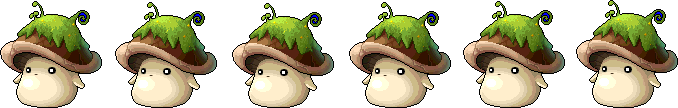
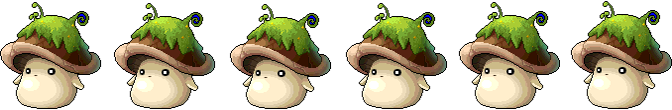
[도행]Middle Boss Test

diff --git a/Brave-Pig/Brave-Pig/Brave-Pig/LevelManager.cs b/Brave-Pig/Brave-Pig/Brave-Pig/LevelManager.cs
@@ -94,13 +94,13 @@ namespace Brave_Pig
 
                     if (TileMap.CellCodeValue(x, y) == "ENEMY2")
                     {
-                        Enemy BrownPig = new Enemy(Content, "갈색돼지", "brownpig", 50, 68, x, y, 200);
+                        Enemy BrownPig = new Enemy(Content, "갈색돼지", "brownpig", 70, 52, x, y, 200);
                         enemies.Add(BrownPig);
                     }
 
                     if (TileMap.CellCodeValue(x, y) == "ENEMY3")
                     {
-                        Enemy MossMushroom = new Enemy(Content, "이끼버섯", "mossmushroom", 64, 64, x, y, 200);
+                        Enemy MossMushroom = new Enemy(Content, "이끼버섯", "mossmushroom", 112, 110, x, y, 200);
                         enemies.Add(MossMushroom);
                     }
 
@@ -128,7 +128,7 @@ namespace Brave_Pig
                         enemies.Add(MossMushroom);
                     }
                     ////////////////////////////////////////////////////
-                    if (TileMap.CellCodeValue(x, y) == "NPC1")
+                    if (TileMap.CellCodeValue(x, y) == "NPC1") // 정기
                     {
                         NPC NPC1 = new NPC(Content, 0, "gonggong", 100, 128, x, y);
                         npc.Add(NPC1);
@@ -150,8 +150,8 @@ namespace Brave_Pig
                     //주인공이 어느 지점을 지나고 몇 초 후에 나타남
                     if (TileMap.CellCodeValue(x, y) == "MBOSS1")
                     {
-                        Enemy MossMushroom = new Enemy(Content, "이끼버섯", "mossmushroom", 64, 64, x, y, 200);
-                        enemies.Add(MossMushroom);
+                        Enemy Middle = new Enemy(Content, "해골장나르크", "middle1", 68, 73, x, y, 200);
+                        enemies.Add(Middle);
                     }
 
                     if (TileMap.CellCodeValue(x, y) == "MBOSS2")

diff --git a/Brave-Pig/Brave-Pig/Brave-Pig/Monsters/Enemy.cs b/Brave-Pig/Brave-Pig/Brave-Pig/Monsters/Enemy.cs
@@ -35,7 +35,7 @@ namespace Brave_Pig.Monsters
                         "Monsters/"+Contentname+"_idle"),
                     width,
                     "idle"));
-            animations["idle"].FrameLength = 0.5f;
+            animations["idle"].FrameLength = 0.3f;
             animations["idle"].LoopAnimation = true;
 
             ///attack 애니메이션
@@ -45,7 +45,7 @@ namespace Brave_Pig.Monsters
                         "Monsters/" + Contentname + "_attack"),
                     width,
                     "attack"));
-            animations["attack"].FrameLength = 0.2f;
+            animations["attack"].FrameLength = 0.1f;
             animations["attack"].LoopAnimation = false;
 
             ///죽음 애니메이션
@@ -56,14 +56,14 @@ namespace Brave_Pig.Monsters
                     width,
                     "dead"));
 
-            animations["dead"].FrameLength = 0.3f;
+            animations["dead"].FrameLength = 0.2f;
             animations["dead"].LoopAnimation = false;
             
             this.HealthPoint = HP;
 
             frameWidth = width;
             frameHeight = height;
-            CollisionRectangle = new Rectangle(2, 2, frameWidth-4, frameWidth-4);
+            CollisionRectangle = new Rectangle(3, 3, frameWidth-6, frameHeight-6);
 
             worldLocation = new Vector2(
                 cellX * TileMap.TileWidth,

diff --git a/Brave-Pig/Brave-Pig/Brave-Pig/Game1.cs b/Brave-Pig/Brave-Pig/Brave-Pig/Game1.cs
@@ -98,7 +98,7 @@ namespace Brave_Pig
             mainUI.LoadContent(Content);
             player = new Player(Content);
             LevelManager.Initialize(Content, player);
-            LevelManager.LoadLevel(0);
+            LevelManager.LoadLevel(4);
         }
 
 
